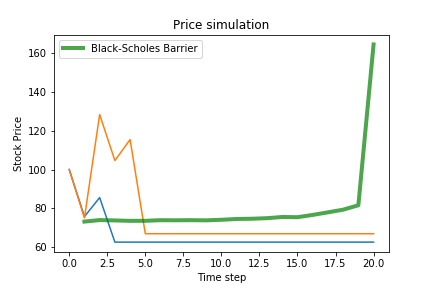
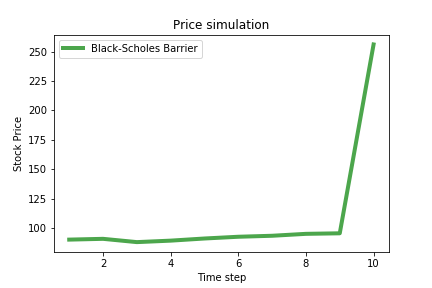
fixed previous_price bug in asset.py

diff --git a/derivatives/Asset.py b/derivatives/Asset.py
@@ -10,7 +10,7 @@ class Asset():
         self.previous_price = initial_price
         self.num_plot_samples = 10
         self.time_steps = time_steps
-        self.prices = np.ones((self.num_plot_samples, self.time_steps+1))*100
+        self.prices = np.ones((self.num_plot_samples, self.time_steps+1))*initial_price
         self.maturity_duration = maturity_duration
         self.delta_t = maturity_duration/time_steps
         self.name = name
@@ -19,8 +19,10 @@ class Asset():
     def simulatePrice(self, sample_id, t):
         Z = np.random.standard_normal()
         exponent = (self.r - self.sigma**2/2)*self.delta_t + self.sigma*np.sqrt(self.delta_t)*Z
+        #print(exponent)
         simulated_price = self.previous_price*np.exp(exponent)
         self.price = simulated_price
+        self.previous_price = simulated_price
         if sample_id < self.num_plot_samples:
             self.prices[sample_id,t+1] = simulated_price
         return simulated_price

diff --git a/monteCarlo/main.py b/monteCarlo/main.py
@@ -1,7 +1,7 @@
 from MonteCarlo import MonteCarlo
 
 if __name__ == "__main__":
-    sample_size = 10000 #250
+    sample_size = 250
     time_steps = 10
     initial_price = 100
     r = 0.02
